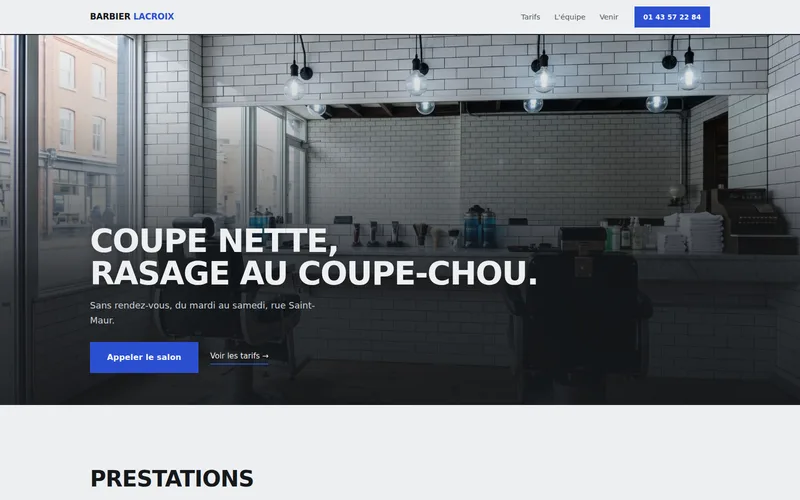
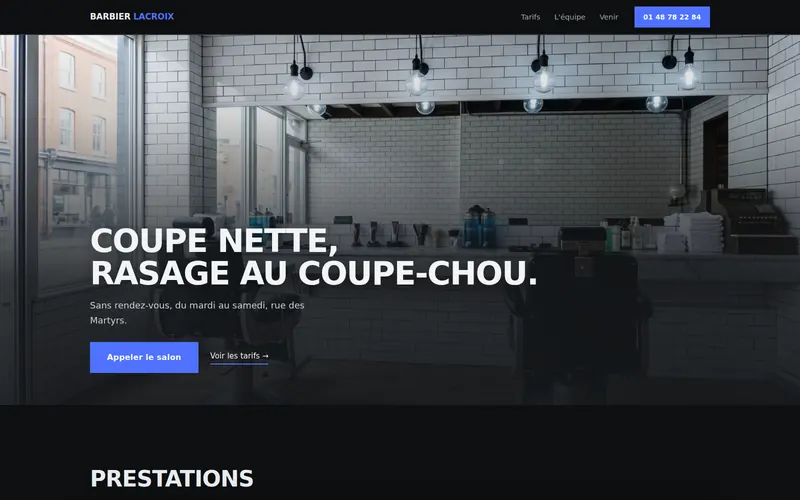
Réalisations : 16 sites, catégorie Sport & santé, nouvelles vignettes
Claude-Session: https://claude.ai/code/session_01R4LsyM5UFdwLxFhb6bbxVu

diff --git a/realisations/app.js b/realisations/app.js
@@ -26,24 +26,39 @@
     { slug: 'couverture-marchal', nom: 'Couverture Marchal', secteur: 'btp',
       desc: 'Couvreur. Le même toit avant et après travaux, à comparer au curseur.',
       tags: ['Avant / après', 'Couvreur', 'Visite'], url: '/demos/couverture-marchal/' },
+    { slug: 'lisiere-paysage', nom: 'Lisière', secteur: 'btp',
+      desc: 'Paysagiste. Une lampe torche révèle le jardin en automne, puis les quatre saisons défilent au scroll.',
+      tags: ['Lampe torche', 'Paysagiste', 'Crédit d’impôt'], url: '/demos/lisiere-paysage/' },
     { slug: 'maison-verrier', nom: 'Maison Verrier', secteur: 'resto',
       desc: 'Restaurant. Structure pilotée par la photographie : bandes pleine largeur et sections de texte, thème sombre du début à la fin.',
       tags: ['Photo pleine largeur', 'Restaurant', 'Réservation'], url: '/demos/maison-verrier/' },
+    { slug: 'pizzeria-brace', nom: 'Brace', secteur: 'resto',
+      desc: 'Pizzeria napolitaine. Trois pizzas, trois univers au scroll, et une carte en photos avec commande à emporter.',
+      tags: ['Univers au scroll', 'Pizzeria', 'Carte visuelle'], url: '/demos/pizzeria-brace/' },
     { slug: 'maison-solene', nom: 'Maison Solène', secteur: 'beaute',
       desc: 'Institut de beauté. Carte des soins qui se déplie, réservation en quatre étapes.',
       tags: ['Réservation', 'Institut', 'Carte des soins'], url: '/demos/maison-solene/' },
     { slug: 'barbier-lacroix', nom: 'Barbier Lacroix', secteur: 'beaute',
-      desc: 'Barbier. Monochrome froid et angles vifs, à l’opposé du sombre et doré du secteur.',
-      tags: ['Vitrine', 'Barbier', 'Tarifs'], url: '/demos/barbier-lacroix/' },
+      desc: 'Barbier. Noir acier et bleu électrique, les prestations s’empilent comme des cartes au scroll.',
+      tags: ['Cartes empilées', 'Barbier', 'Tarifs'], url: '/demos/barbier-lacroix/' },
     { slug: 'forge-studio', nom: 'Forge Studio', secteur: 'sport',
       desc: 'Salle de sport. Planning des cours filtrable, fiche de chaque cours, séance d’essai.',
       tags: ['Planning', 'Salle de sport', 'Tarifs'], url: '/demos/forge-studio/' },
+    { slug: 'cabinet-arcel', nom: 'Cabinet Arcel', secteur: 'sport',
+      desc: 'Ostéo et kiné du sport. On touche la zone qui fait mal, la fiche de prise en charge s’ouvre.',
+      tags: ['Corps cliquable', 'Santé', 'Rendez-vous'], url: '/demos/cabinet-arcel/' },
     { slug: 'belval-proprete', nom: 'Belval Propreté', secteur: 'services',
       desc: 'Nettoyage de bureaux. Estimation mensuelle en direct selon la surface et la fréquence.',
       tags: ['Simulateur', 'B2B', 'Devis'], url: '/demos/belval-proprete/' },
     { slug: 'cabinet-delaunay', nom: 'Cabinet Delaunay', secteur: 'services',
       desc: 'Avocate. Le délai légal à connaître selon votre situation, texte de loi à l’appui.',
-      tags: ['Guide juridique', 'Avocat', 'Rendez-vous'], url: '/demos/cabinet-delaunay/' }
+      tags: ['Guide juridique', 'Avocat', 'Rendez-vous'], url: '/demos/cabinet-delaunay/' },
+    { slug: 'garage-ferrand', nom: 'Garage Ferrand', secteur: 'services',
+      desc: 'Garage auto. Devis d’entretien selon la voiture et le kilométrage, services qui changent la photo.',
+      tags: ['Devis en ligne', 'Garage', 'Rendez-vous'], url: '/demos/garage-ferrand/' },
+    { slug: 'auto-ecole-lumiere', nom: 'Auto-école Lumière', secteur: 'services',
+      desc: 'Auto-école. La voiture traverse Paris au scroll, le parcours du permis défile, le prix se calcule en direct.',
+      tags: ['Vidéo au scroll', 'Auto-école', 'Simulateur'], url: '/demos/auto-ecole-lumiere/' }
   ].map(function (p, i) {
     p.no = String(i + 1).padStart(3, '0');
     return p;

diff --git a/realisations/index.html b/realisations/index.html
@@ -88,7 +88,7 @@
       <button class="chip" data-secteur="btp" aria-pressed="false">BTP &amp; artisans</button>
       <button class="chip" data-secteur="resto" aria-pressed="false">Restauration</button>
       <button class="chip" data-secteur="beaute" aria-pressed="false">Beauté &amp; bien-être</button>
-      <button class="chip" data-secteur="sport" aria-pressed="false">Sport</button>
+      <button class="chip" data-secteur="sport" aria-pressed="false">Sport &amp; santé</button>
       <button class="chip" data-secteur="services" aria-pressed="false">Services</button>
     </div>
 
